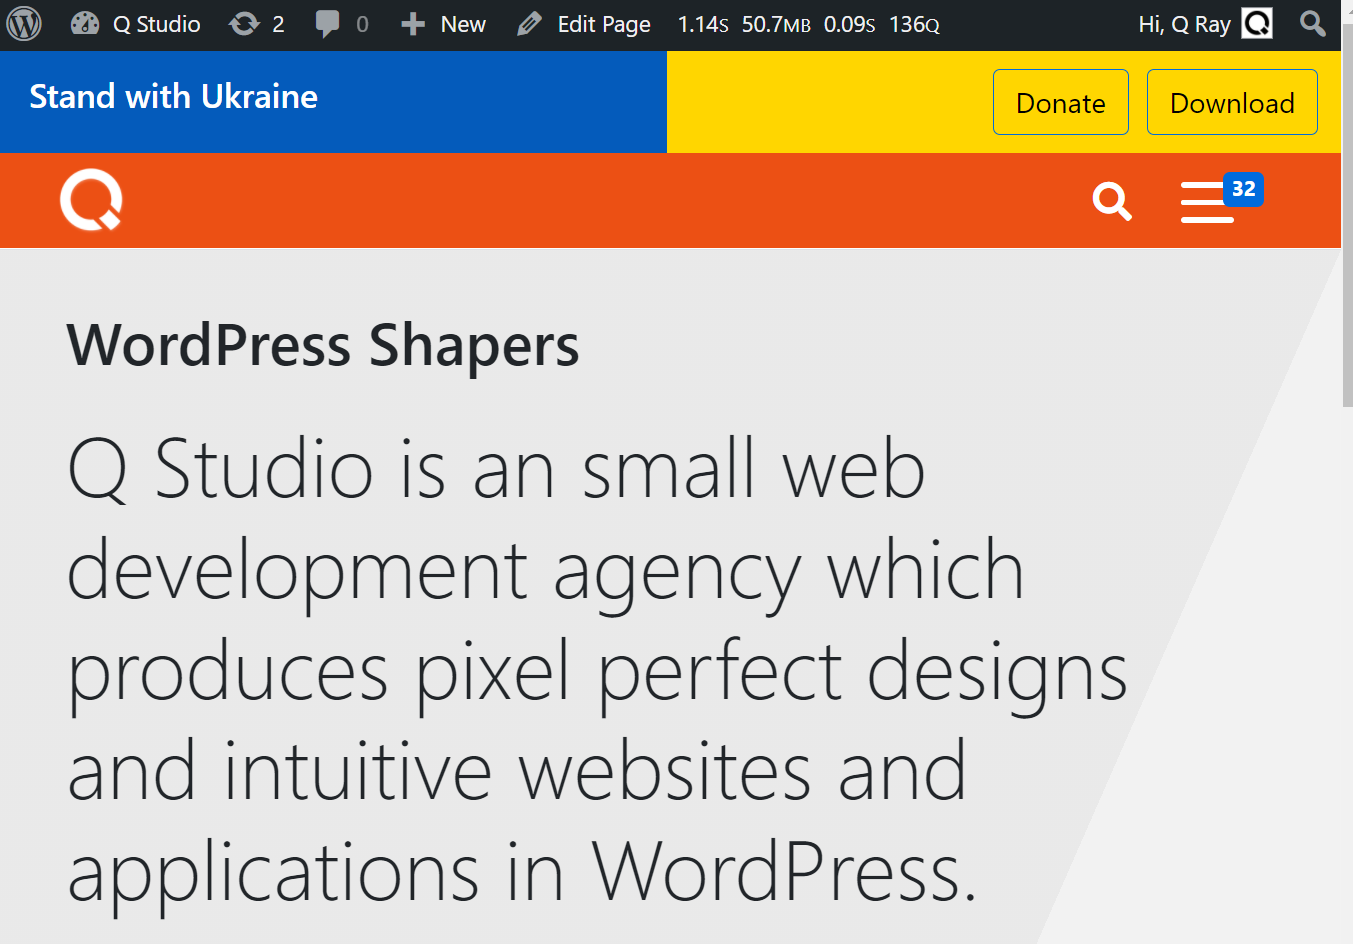
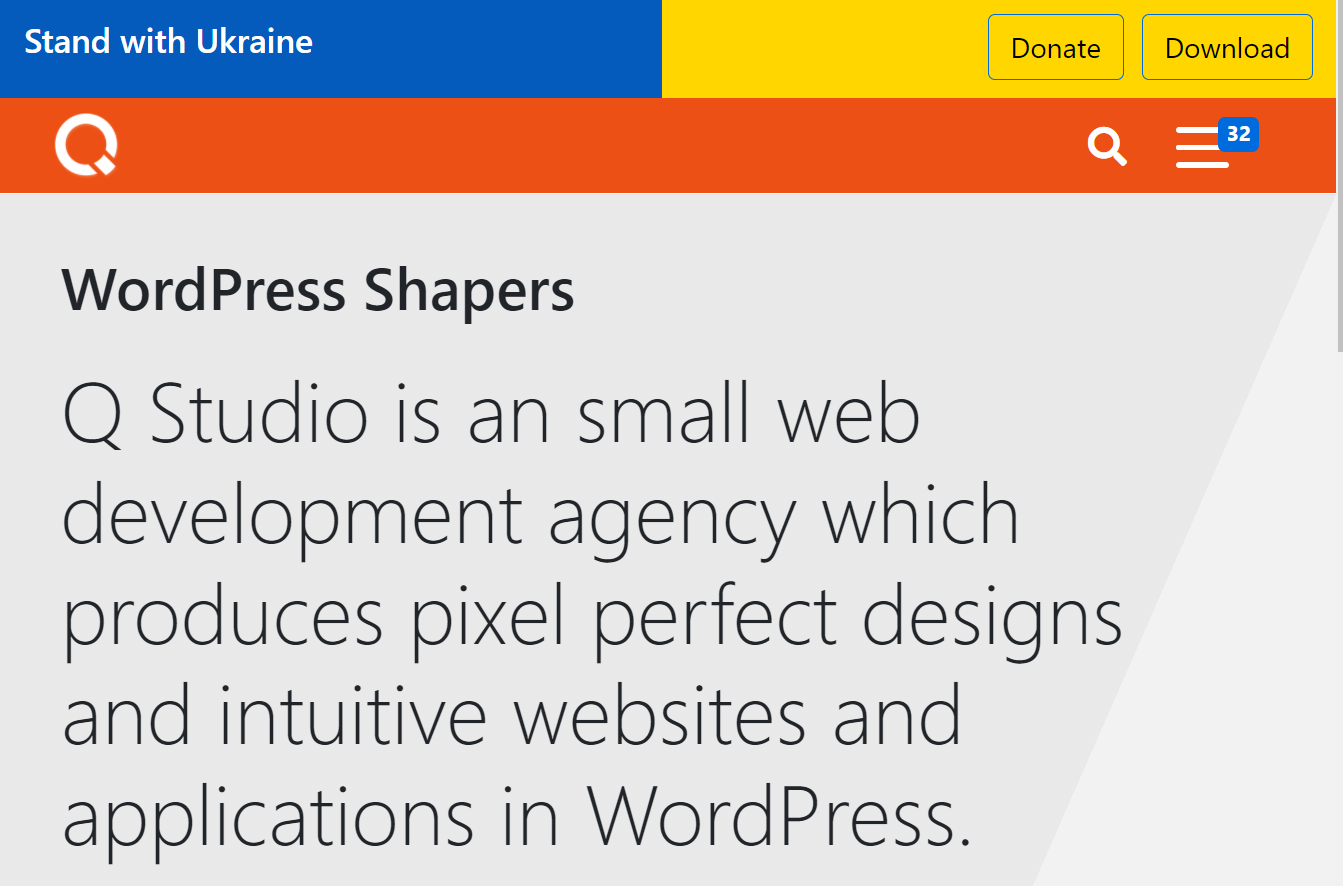
1.0.6

diff --git a/stand-with-ukraine.php b/stand-with-ukraine.php
@@ -14,7 +14,7 @@ declare(strict_types = 1);
  * Plugin Name:     Stand with Ukraine Banner
  * Plugin URI:      https://github.com/qstudio/wordpress-plugin-stand-with-ukraine
  * Description:     Stand with Ukraine Banner Plugin for WordPress.org
- * Version:         1.0.5
+ * Version:         1.0.6
  * Author:          Q Studio
  * Author URI:      https://qstudio.us
  * License:         GPL-2.0+

diff --git a/plugin.php b/plugin.php
@@ -28,7 +28,7 @@ final class plugin {
 	private static 
 	
 		// current tag ##
-		$version = '1.0.5',
+		$version = '1.0.6',
 		
 		// log ##
 		$log = null,

diff --git a/readme.md b/readme.md
@@ -3,7 +3,7 @@
 **Tags:** Banner, Plugin, Support, Ukraine  
 **Requires at least:** 5.0  
 **Tested up to:** 5.9.1  
-**Stable tag:** 1.0.5     
+**Stable tag:** 1.0.6     
 **License:** GPL-2.0+  
 
 Stand with Ukraine Banner Plugin for WordPress.org

diff --git a/CHANGELOG.md b/CHANGELOG.md
@@ -1,3 +1,7 @@
+### 1.0.6 ###
+
+* screenshot fix
+
 ### 1.0.5 ###
 
 * asset location fix
